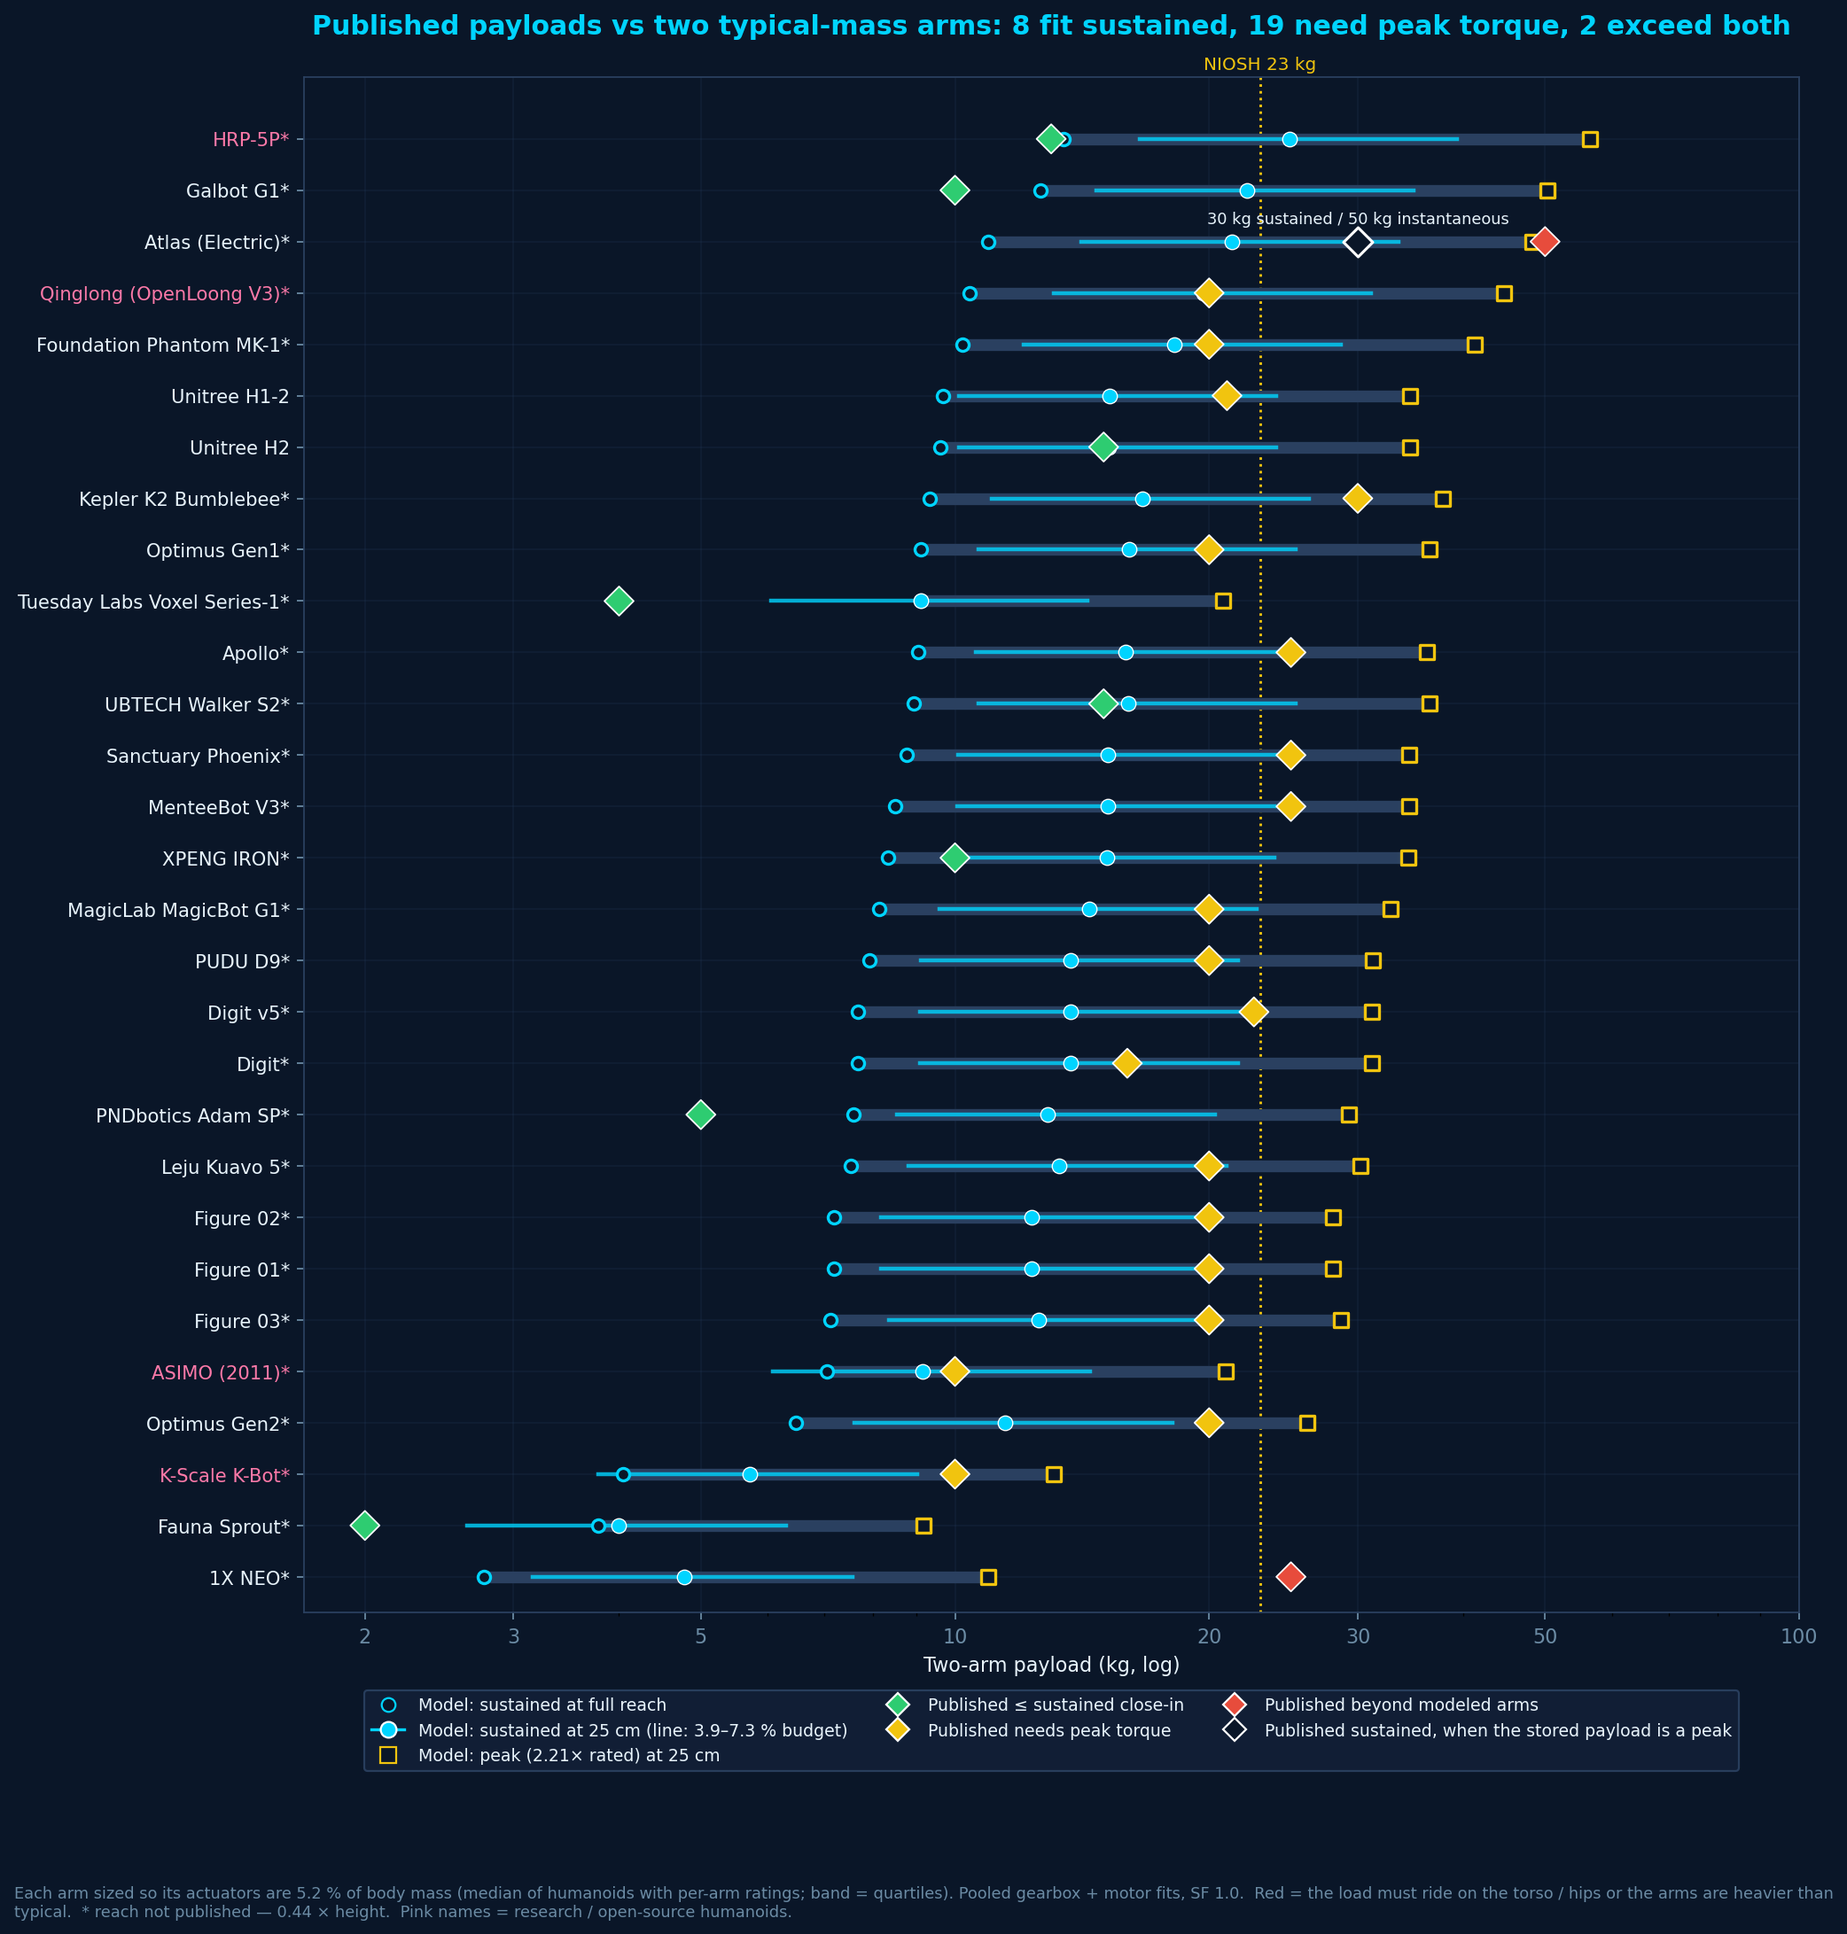
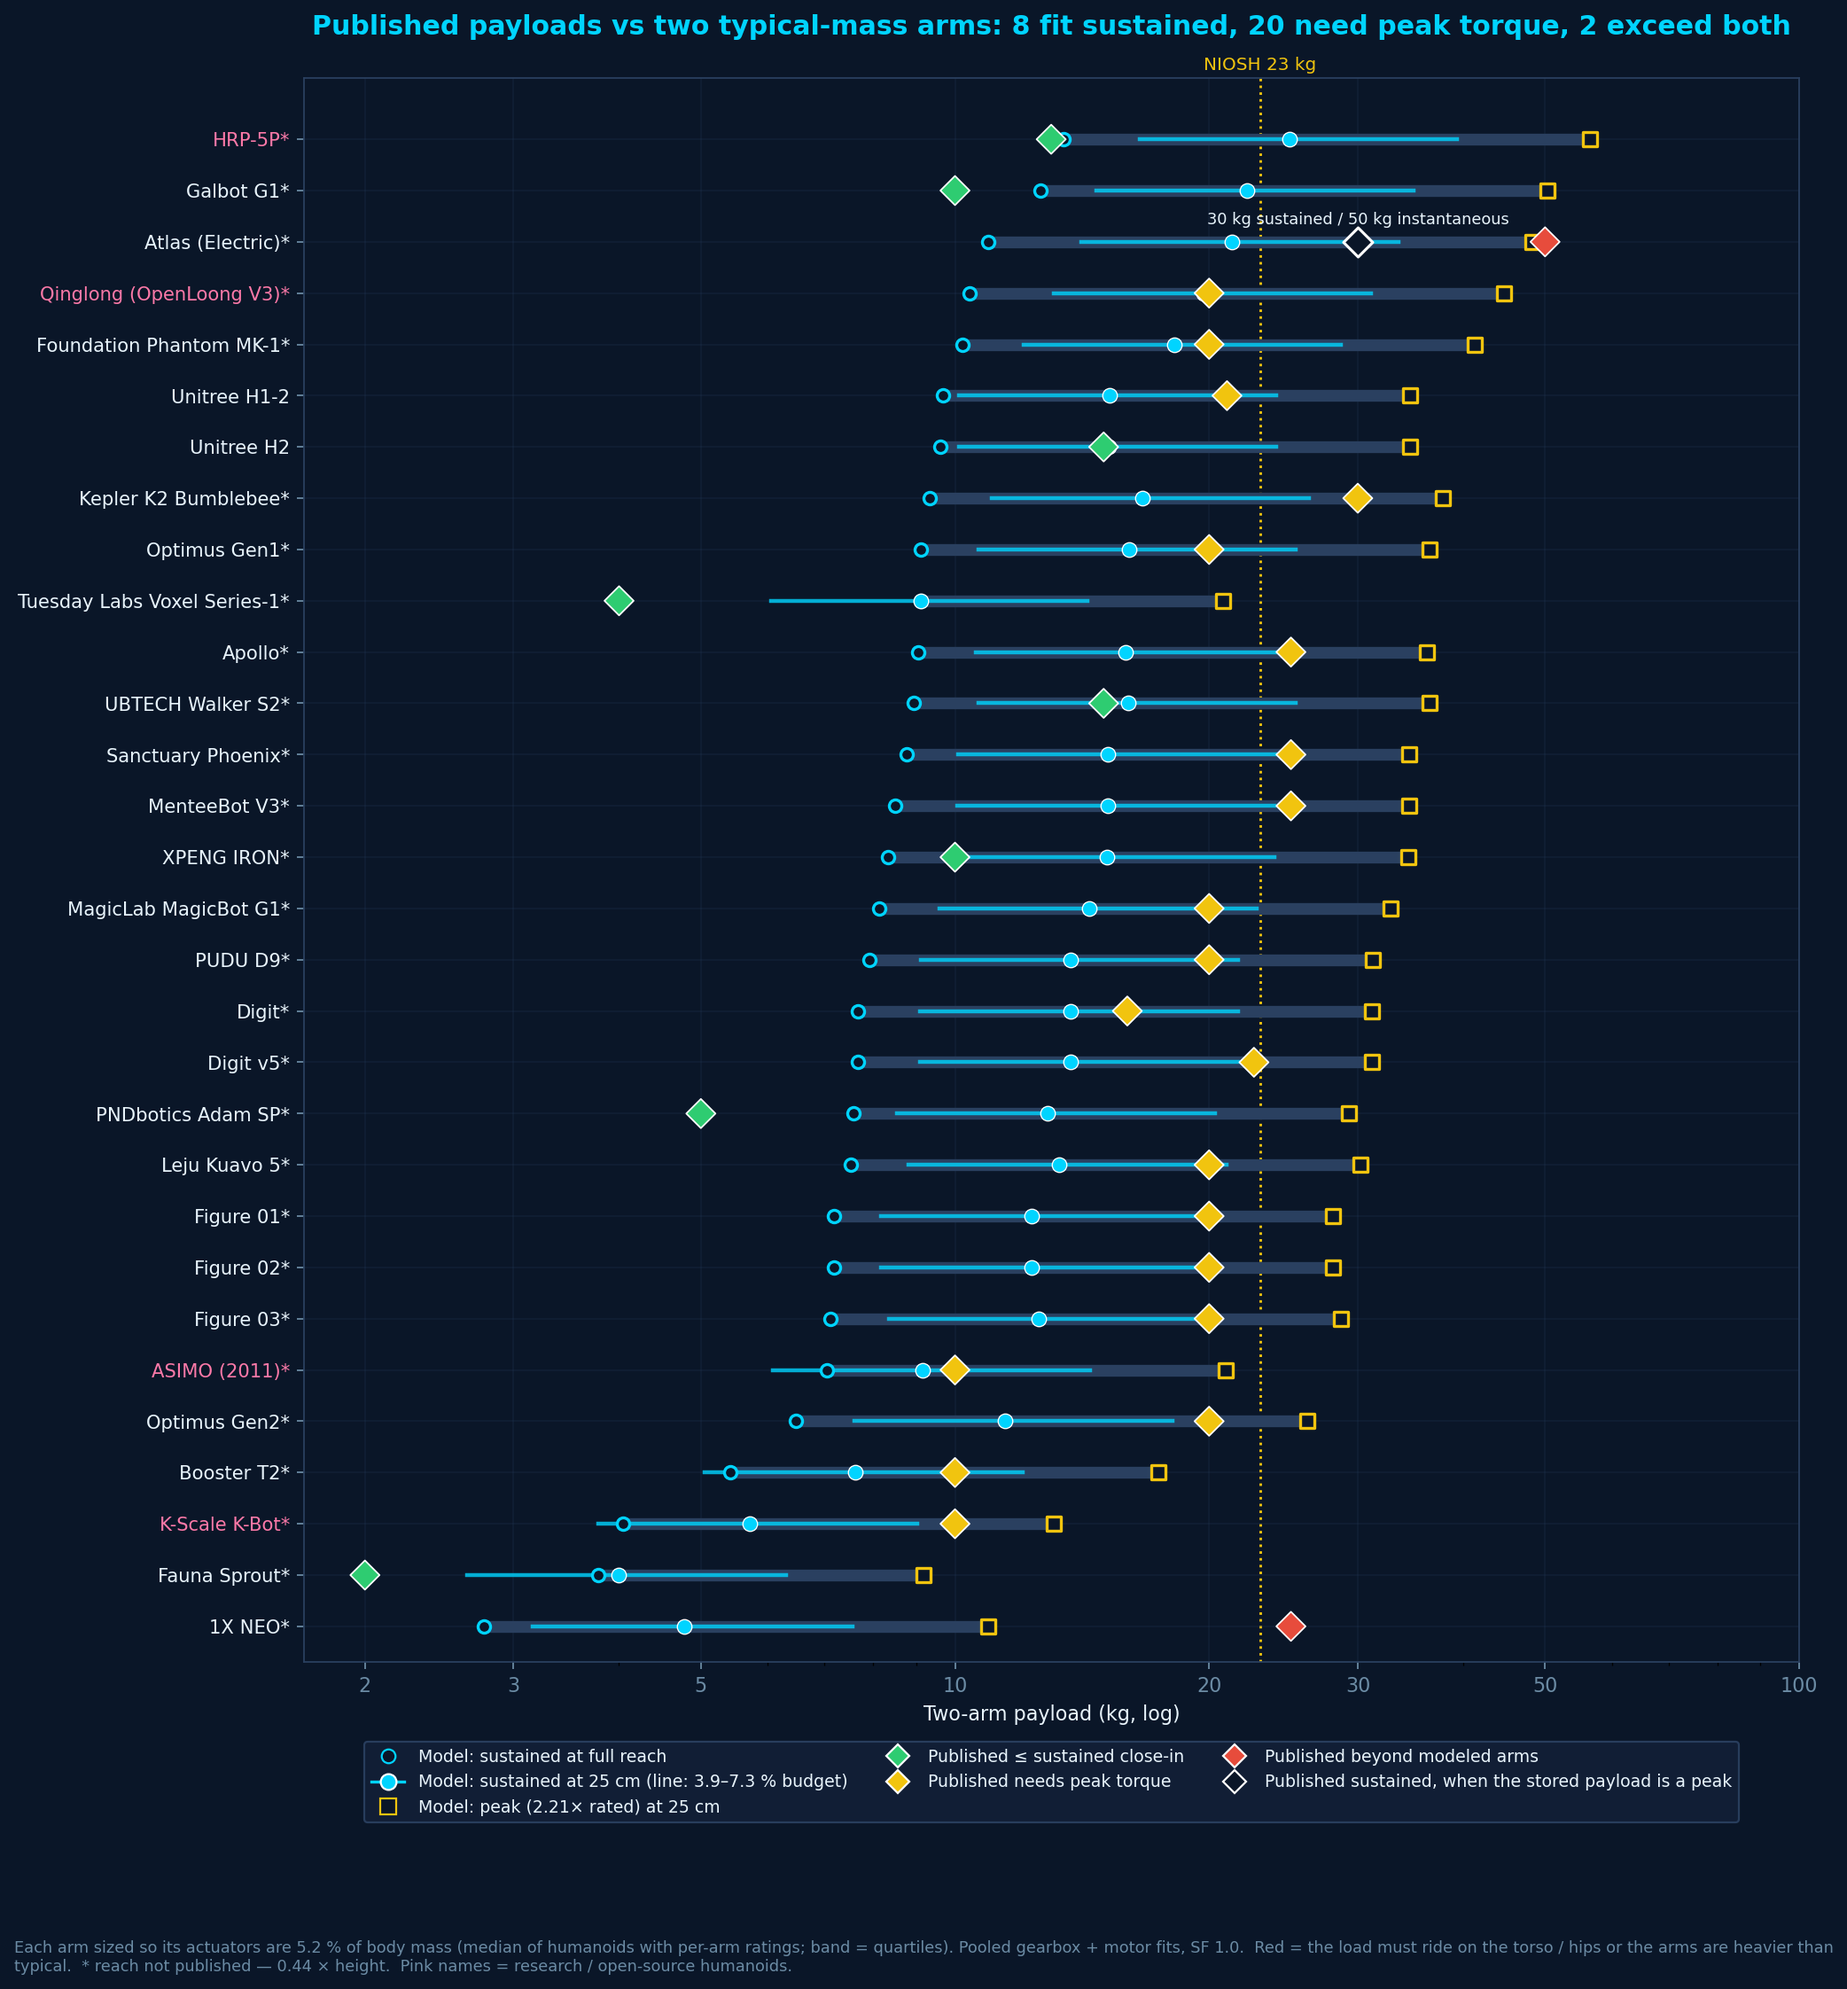
found a few extra humanoids from linkedin post

diff --git a/generate_humanoid_plot.py b/generate_humanoid_plot.py
@@ -68,6 +68,7 @@ PROGRESS_CHAINS = [
 
 # Label offsets in points (dx, dy). Mid-height cluster is fanned hard.
 LABEL_OFFSETS = {
+    'Booster T2': (-6, -44),
     'Tuesday Labs Voxel Series-1': (4, 30),
     'K-Scale K-Bot': (-12, -16),
     'Fourier GR-1': (-28, 8),
